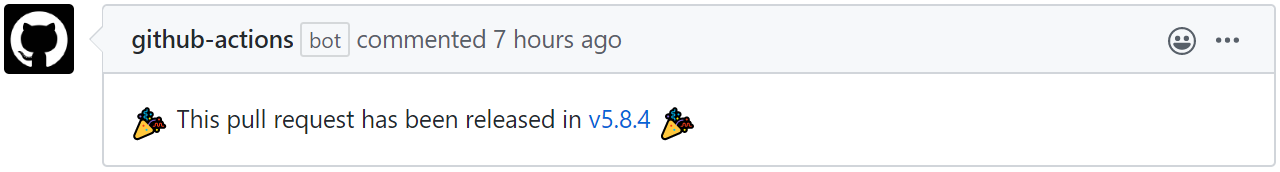
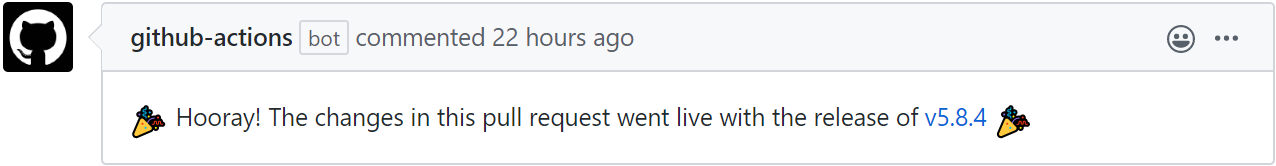
Update comment message and preview image (#3)

diff --git a/dist/index.js b/dist/index.js
@@ -36,6 +36,8 @@ module.exports =
 /******/ 		// Load entry module and return exports
 /******/ 		return __webpack_require__(669);
 /******/ 	};
+/******/ 	// initialize runtime
+/******/ 	runtime(__webpack_require__);
 /******/
 /******/ 	// run startup
 /******/ 	return startup();
@@ -19933,54 +19935,50 @@ module.exports = class HttpError extends Error {
 /***/ }),
 
 /***/ 669:
-/***/ (function(__unusedmodule, exports, __webpack_require__) {
+/***/ (function(__unusedmodule, __webpack_exports__, __webpack_require__) {
 
 "use strict";
+__webpack_require__.r(__webpack_exports__);
+/* harmony import */ var _actions_core__WEBPACK_IMPORTED_MODULE_0__ = __webpack_require__(369);
+/* harmony import */ var _actions_core__WEBPACK_IMPORTED_MODULE_0___default = /*#__PURE__*/__webpack_require__.n(_actions_core__WEBPACK_IMPORTED_MODULE_0__);
+/* harmony import */ var _actions_github__WEBPACK_IMPORTED_MODULE_1__ = __webpack_require__(765);
+/* harmony import */ var _actions_github__WEBPACK_IMPORTED_MODULE_1___default = /*#__PURE__*/__webpack_require__.n(_actions_github__WEBPACK_IMPORTED_MODULE_1__);
 
-var __importStar = (this && this.__importStar) || function (mod) {
-    if (mod && mod.__esModule) return mod;
-    var result = {};
-    if (mod != null) for (var k in mod) if (Object.hasOwnProperty.call(mod, k)) result[k] = mod[k];
-    result["default"] = mod;
-    return result;
-};
-Object.defineProperty(exports, "__esModule", { value: true });
-const core = __importStar(__webpack_require__(369));
-const github = __importStar(__webpack_require__(765));
+
 async function run() {
     var _a;
     try {
-        const payload = github.context.payload;
-        const event = github.context.eventName;
+        const payload = _actions_github__WEBPACK_IMPORTED_MODULE_1__.context.payload;
+        const event = _actions_github__WEBPACK_IMPORTED_MODULE_1__.context.eventName;
         const action = payload.action;
         if (event != "release" || action != "published") {
-            core.error(`This action is meant to run only when a release is being published. Current event="${event}"; Current action="${action}"`);
+            _actions_core__WEBPACK_IMPORTED_MODULE_0__.error(`This action is meant to run only when a release is being published. Current event='${event}'; current action='${action}'`);
             return;
         }
-        const token = core.getInput("repo-token", { required: true });
-        const octokit = new github.GitHub(token);
+        const token = _actions_core__WEBPACK_IMPORTED_MODULE_0__.getInput('repo-token', { required: true });
+        const octokit = new _actions_github__WEBPACK_IMPORTED_MODULE_1__.GitHub(token);
         const currentRelease = payload.release;
-        core.debug(`Current release tag=${currentRelease.tag_name}`);
+        _actions_core__WEBPACK_IMPORTED_MODULE_0__.debug(`Current release tag=${currentRelease.tag_name}`);
         const previousRelease = await getPreviousRelease(octokit);
         if (previousRelease) {
-            core.debug(`Previous release tag=${previousRelease.tag_name}`);
+            _actions_core__WEBPACK_IMPORTED_MODULE_0__.debug(`Previous release tag=${previousRelease.tag_name}`);
         }
         else {
-            core.debug("Previous release not found.");
+            _actions_core__WEBPACK_IMPORTED_MODULE_0__.debug("Previous release not found.");
         }
-        const prsByNumber = await getReleasedPRs(octokit, (_a = previousRelease) === null || _a === void 0 ? void 0 : _a.tag_name, currentRelease.tag_name);
-        await addCommentsToPRs(octokit, prsByNumber, currentRelease);
-        core.setOutput("pr-ids", Array.from(prsByNumber.keys()));
+        const prsById = await getReleasedPRs(octokit, (_a = previousRelease) === null || _a === void 0 ? void 0 : _a.tag_name, currentRelease.tag_name);
+        await addCommentsToPRs(octokit, prsById, currentRelease);
+        _actions_core__WEBPACK_IMPORTED_MODULE_0__.setOutput("pr-ids", Array.from(prsById.keys()));
     }
     catch (error) {
-        core.setFailed(error.message);
+        _actions_core__WEBPACK_IMPORTED_MODULE_0__.setFailed(error.message);
     }
 }
 async function getPreviousRelease(client) {
     const { data: releases } = await client.repos.listReleases({
-        ...github.context.repo,
+        ..._actions_github__WEBPACK_IMPORTED_MODULE_1__.context.repo,
         per_page: 2,
-        page: 1,
+        page: 1
     });
     if (releases.length < 2) {
         return undefined;
@@ -19991,43 +19989,42 @@ async function getReleasedPRs(client, base, head) {
     let commits;
     if (base == undefined) {
         const responseCommits = await client.repos.listCommits({
-            ...github.context.repo,
+            ..._actions_github__WEBPACK_IMPORTED_MODULE_1__.context.repo,
             sha: head,
-            per_page: 50,
-            page: 1,
+            per_page: 50
         });
         commits = responseCommits.data;
-        core.debug(`Found ${commits.length} commits when listed from head=${head}`);
+        _actions_core__WEBPACK_IMPORTED_MODULE_0__.debug(`Found ${commits.length} commits when listed from head=${head}`);
     }
     else {
         const responseCommits = await client.repos.compareCommits({
-            ...github.context.repo,
+            ..._actions_github__WEBPACK_IMPORTED_MODULE_1__.context.repo,
             base: base,
-            head: head,
+            head: head
         });
         commits = responseCommits.data.commits;
-        core.debug(`Found ${commits.length} commits when compared base=${base} and head=${head}`);
+        _actions_core__WEBPACK_IMPORTED_MODULE_0__.debug(`Found ${commits.length} commits when compared base=${base} and head=${head}`);
     }
-    const prsByNumber = new Map();
+    let prsById = new Map();
     for (const commit of commits) {
         const { data: prs } = await client.repos.listPullRequestsAssociatedWithCommit({
-            ...github.context.repo,
-            commit_sha: commit.sha,
+            ..._actions_github__WEBPACK_IMPORTED_MODULE_1__.context.repo,
+            commit_sha: commit.sha
         });
         prs.forEach(pr => {
-            prsByNumber.set(pr.number, pr);
+            prsById.set(pr.number, pr);
         });
     }
-    return prsByNumber;
+    return prsById;
 }
 async function addCommentsToPRs(client, prs, release) {
     prs.forEach(async (pr) => {
         const responseComment = await client.issues.createComment({
-            ...github.context.repo,
+            ..._actions_github__WEBPACK_IMPORTED_MODULE_1__.context.repo,
             issue_number: pr.number,
-            body: `\u{1F389} This pull request has been released in [${release.name}](${release.html_url}) \u{1F389}`,
+            body: `\u{1F389} Hooray! The changes in this pull request went live with the release of [${release.name}](${release.html_url}) \u{1F389}`,
         });
-        core.debug(`Commented PR: ${pr.number}, resposne code: ${responseComment.status.toString()}`);
+        _actions_core__WEBPACK_IMPORTED_MODULE_0__.debug(`Commented PR: ${pr.number}, resposne code: ${responseComment.status.toString()}`);
     });
 }
 run();
@@ -24215,6 +24212,26 @@ function getValue(object, key) {
   return object == null ? undefined : object[key];
 }
 
+/** Used for built-in method references. */
+var arrayProto = Array.prototype,
+    funcProto = Function.prototype,
+    objectProto = Object.prototype;
+
+/** Used to detect overreaching core-js shims. */
+var coreJsData = root['__core-js_shared__'];
+
+/** Used to detect methods masquerading as native. */
+var maskSrcKey = (function() {
+  var uid = /[^.]+$/.exec(coreJsData && coreJsData.keys && coreJsData.keys.IE_PROTO || '');
+  return uid ? ('Symbol(src)_1.' + uid) : '';
+}());
+
+/** Used to resolve the decompiled source of functions. */
+var funcToString = funcProto.toString;
+
+/** Used to check objects for own properties. */
+var hasOwnProperty = objectProto.hasOwnProperty;
+
 /**
  * Checks if `value` is a host object in IE < 9.
  *
@@ -25012,6 +25029,7 @@ function httpOverHttp(options) {
   agent.request = http.request;
   return agent;
 }
+util.inherits(TunnelingAgent, events.EventEmitter);
 
 function httpsOverHttp(options) {
   var agent = new TunnelingAgent(options);
@@ -25448,4 +25466,43 @@ exports.paginateRest = paginateRest;
 
 /***/ })
 
-/******/ });
+/******/ },
+/******/ function(__webpack_require__) { // webpackRuntimeModules
+/******/ 	"use strict";
+/******/ 
+/******/ 	/* webpack/runtime/make namespace object */
+/******/ 	!function() {
+/******/ 		// define __esModule on exports
+/******/ 		__webpack_require__.r = function(exports) {
+/******/ 			if(typeof Symbol !== 'undefined' && Symbol.toStringTag) {
+/******/ 				Object.defineProperty(exports, Symbol.toStringTag, { value: 'Module' });
+/******/ 			}
+/******/ 			Object.defineProperty(exports, '__esModule', { value: true });
+/******/ 		};
+/******/ 	}();
+/******/ 	
+/******/ 	/* webpack/runtime/compat get default export */
+/******/ 	!function() {
+/******/ 		// getDefaultExport function for compatibility with non-harmony modules
+/******/ 		__webpack_require__.n = function(module) {
+/******/ 			var getter = module && module.__esModule ?
+/******/ 				function getDefault() { return module['default']; } :
+/******/ 				function getModuleExports() { return module; };
+/******/ 			__webpack_require__.d(getter, 'a', getter);
+/******/ 			return getter;
+/******/ 		};
+/******/ 	}();
+/******/ 	
+/******/ 	/* webpack/runtime/define property getter */
+/******/ 	!function() {
+/******/ 		// define getter function for harmony exports
+/******/ 		var hasOwnProperty = Object.prototype.hasOwnProperty;
+/******/ 		__webpack_require__.d = function(exports, name, getter) {
+/******/ 			if(!hasOwnProperty.call(exports, name)) {
+/******/ 				Object.defineProperty(exports, name, { enumerable: true, get: getter });
+/******/ 			}
+/******/ 		};
+/******/ 	}();
+/******/ 	
+/******/ }
+);

diff --git a/src/index.ts b/src/index.ts
@@ -119,7 +119,7 @@ async function addCommentsToPRs(
         const responseComment = await client.issues.createComment({
             ...github.context.repo,
             issue_number: pr.number,
-            body: `\u{1F389} This pull request has been released in [${release.name}](${release.html_url}) \u{1F389}`,
+            body: `\u{1F389} Hooray! The changes in this pull request went live with the release of [${release.name}](${release.html_url}) \u{1F389}`,
         });
 
         core.debug(`Commented PR: ${pr.number}, resposne code: ${responseComment.status.toString()}`);
